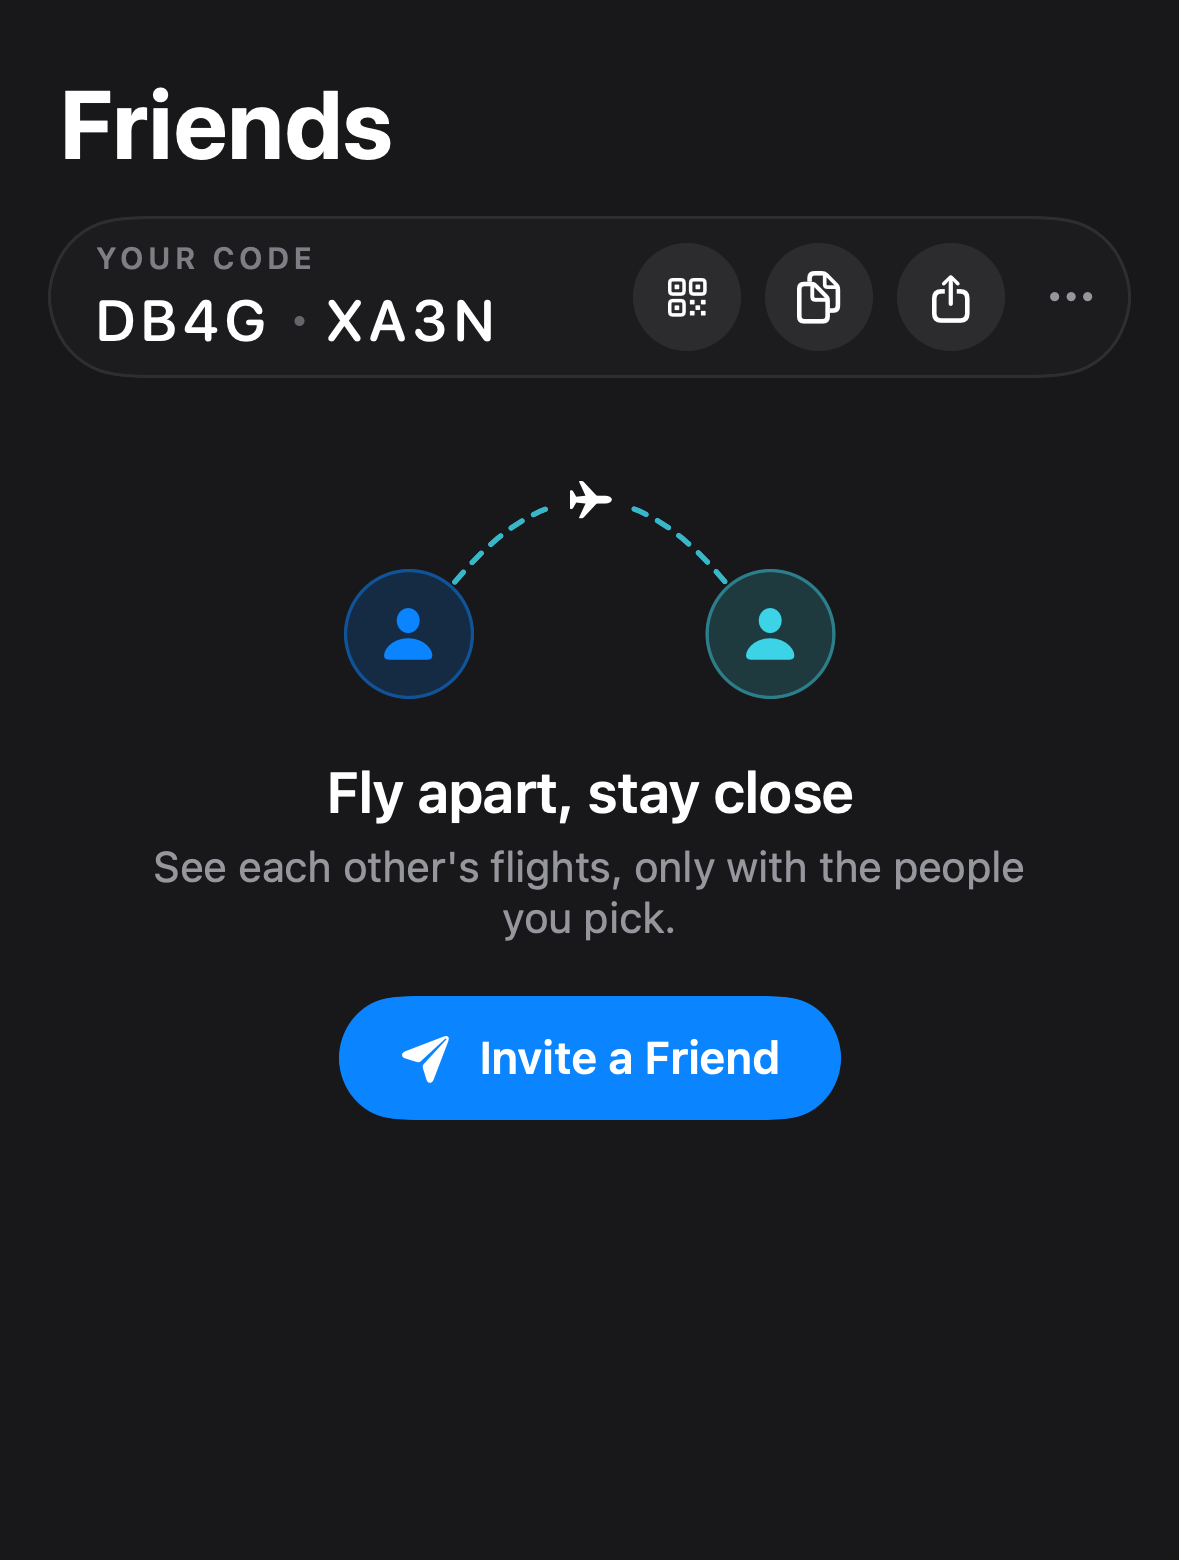
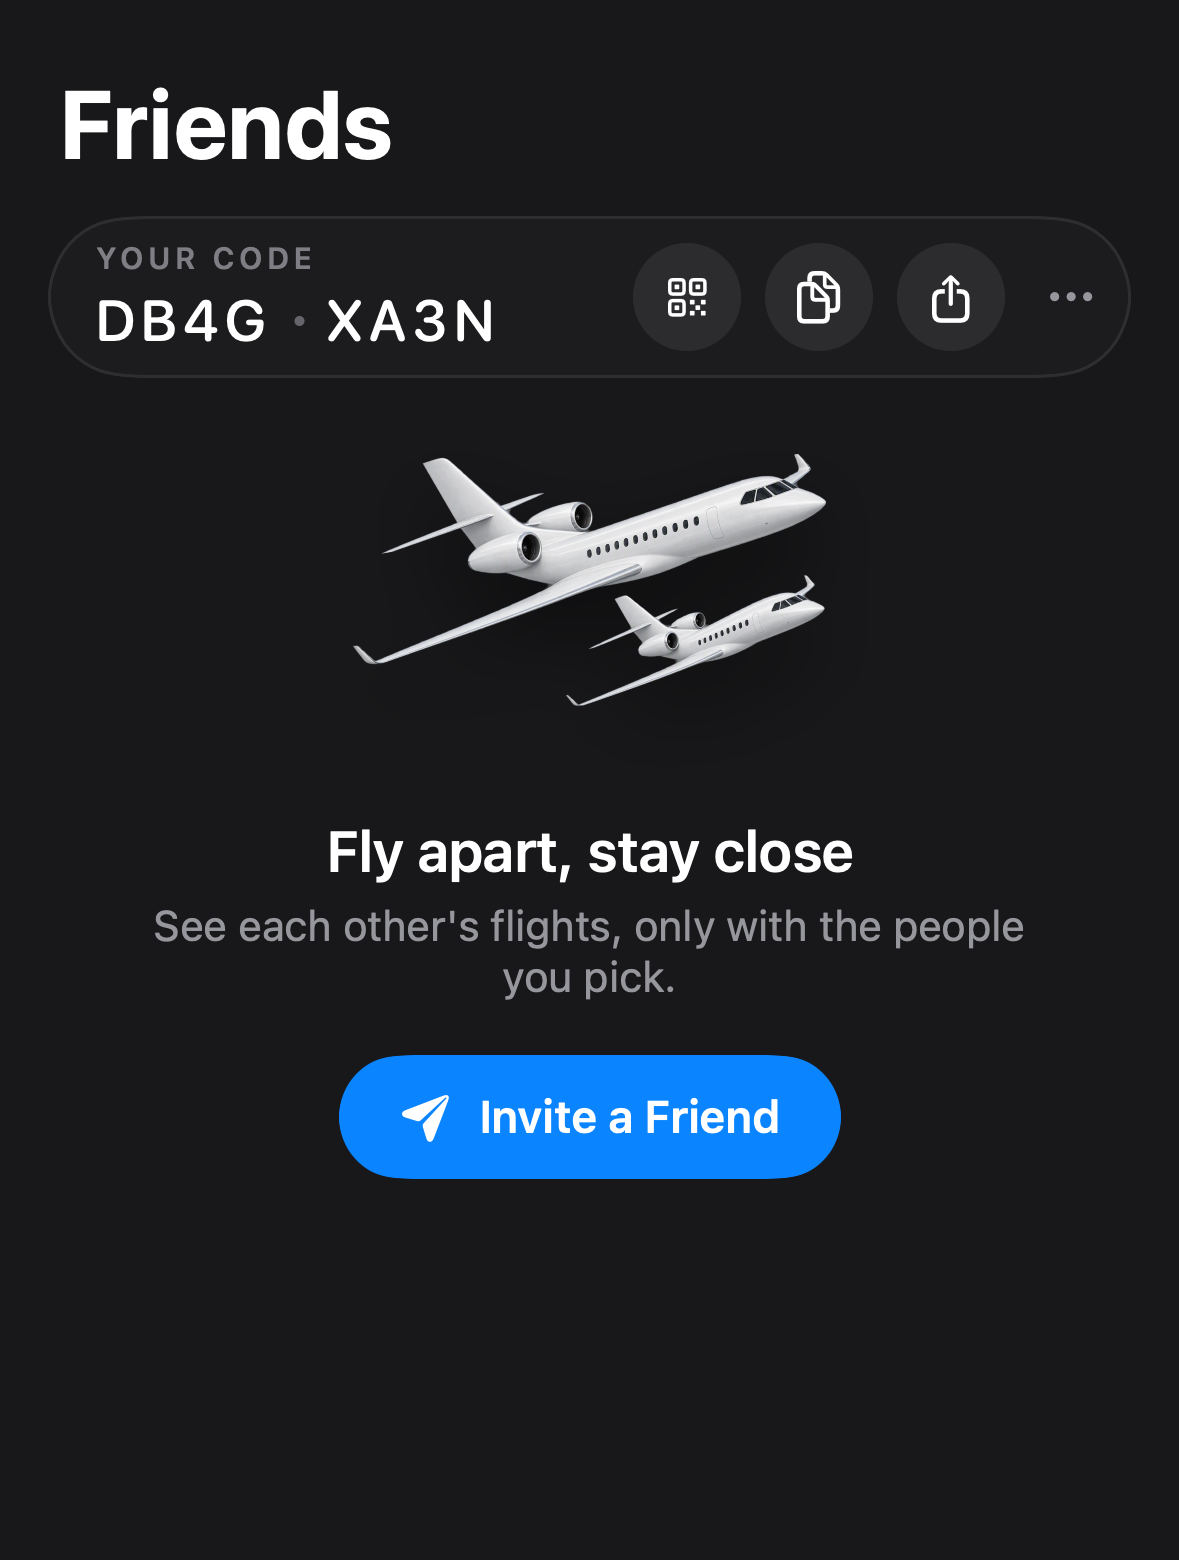
feat(friends): two jets climbing together for the Friends empty state
The drawn person circles and dashed arc give way to a picture in the same
family as the My Flights and Passport jets: two of our white jets climbing in
formation (Azure gpt-image-2.5, prompt in assets/app-icon/gen.py). post.py
gains --lo and --erode to cut this raw's wider glow so no halo shows on the
dark sheet. Copy unchanged.

Changed region(s): [[0.1221, 0.4923, 0.8855, 0.7692], [0.2748, 0.2769, 0.7328, 0.4615]]

diff --git a/Packages/FlightKit/Sources/FlightKit/UI/Screens/Friends/FriendsEmptyState.swift b/Packages/FlightKit/Sources/FlightKit/UI/Screens/Friends/FriendsEmptyState.swift
@@ -1,6 +1,6 @@
 import SwiftUI
 
-/// The Friends tab with no friend yet, under the code row: a small drawing, one line, one sentence and Invite
+/// The Friends tab with no friend yet, under the code row: our two jets climbing together, one line, one sentence and Invite
 /// a Friend, the tab's one strong button, which opens the share sheet with the invitation link (made when it
 /// is tapped, reused until it nears its end).
 struct FriendsEmptyState: View {
@@ -8,8 +8,7 @@ struct FriendsEmptyState: View {
 
     var body: some View {
         VStack(spacing: 0) {
-            FriendsIllustration(width: 168)
-                .scaledPadding(.top, 14)
+            EmptyStateIllustration(variant: .pair, size: 240)
             Text(FriendFacts.emptyTitle)
                 .scaledFont(19, weight: .semibold)
                 .foregroundStyle(Theme.primary)
@@ -34,55 +33,5 @@ struct FriendsEmptyState: View {
         .multilineTextAlignment(.center)
         .frame(maxWidth: .infinity)
         .scaledPadding(.horizontal, 32)
-    }
-}
-
-/// Two friends, one on each side, joined by a dashed flight arc (the globe's friend route) with a small
-/// plane at its top: drawn in SwiftUI, in the accent and friends colours.
-struct FriendsIllustration: View {
-    /// Its width in reference points; the height and every stroke follow.
-    var width: CGFloat = 232
-    @Environment(\.metricsScale) private var scale
-
-    var body: some View {
-        let k = width / 232
-        let w = Theme.metric(width, scale), h = Theme.metric(112 * k, scale), r = Theme.metric(30 * k, scale)
-        let left = CGPoint(x: r + 2, y: h - r - 2), right = CGPoint(x: w - r - 2, y: h - r - 2)
-        // The arc leaves each circle near its top and peaks over the middle.
-        let start = CGPoint(x: left.x + r * 0.7, y: left.y - r * 0.8)
-        let end = CGPoint(x: right.x - r * 0.7, y: right.y - r * 0.8)
-        let control = CGPoint(x: w / 2, y: -h * 0.18)
-        // A quadratic curve's middle point, where its tangent is level: the plane flies left to right there.
-        let top = CGPoint(x: (start.x + 2 * control.x + end.x) / 4, y: (start.y + 2 * control.y + end.y) / 4)
-        ZStack {
-            Path { p in
-                p.move(to: start)
-                p.addQuadCurve(to: end, control: control)
-            }
-            .stroke(Theme.friend.opacity(0.85),
-                    style: StrokeStyle(lineWidth: Theme.metric(2.5 * k, scale), lineCap: .round, dash: [6 * k, 6 * k]))
-            Image(systemName: "airplane")
-                .font(.system(size: Theme.metric(17 * k, scale), weight: .semibold))
-                .foregroundStyle(Theme.primary)
-                .padding(Theme.metric(7 * k, scale))
-                .background(Circle().fill(Theme.background))
-                .position(top)
-            avatar(Theme.accent, at: left, radius: r, k: k)
-            avatar(Theme.friend, at: right, radius: r, k: k)
-        }
-        .frame(width: w, height: h)
-        .accessibilityHidden(true)
-    }
-
-    private func avatar(_ tone: Color, at point: CGPoint, radius r: CGFloat, k: CGFloat) -> some View {
-        ZStack {
-            Circle().fill(tone.opacity(0.18))
-            Circle().strokeBorder(tone.opacity(0.45), lineWidth: Theme.metric(1.5 * k, scale))
-            Image(systemName: "person.fill")
-                .font(.system(size: r * 0.9, weight: .medium))
-                .foregroundStyle(tone)
-        }
-        .frame(width: r * 2, height: r * 2)
-        .position(point)
     }
 }

diff --git a/Packages/FlightKit/Sources/FlightKit/UI/EmptyStateIllustration.swift b/Packages/FlightKit/Sources/FlightKit/UI/EmptyStateIllustration.swift
@@ -1,7 +1,7 @@
 import SwiftUI
 
 /// A large, soft illustration for an empty screen: our glossy white jet on its own, nothing drawn around it.
-/// The pictures come from assets/empty-states (Azure gpt-image-2.5, the v4 icon jet as the style reference).
+/// The pictures come from assets/empty-states and assets/app-icon (Azure gpt-image-2.5, one jet as the style reference).
 /// Decorative: VoiceOver skips it, the text under it speaks. The jet floats gently, and stays still with
 /// Reduce Motion.
 struct EmptyStateIllustration: View {
@@ -11,11 +11,14 @@ struct EmptyStateIllustration: View {
         case stamp
         /// The jet seen three-quarters from the front, climbing (My Flights).
         case climb
+        /// Two of the same jets climbing together, one ahead and one behind (Friends).
+        case pair
 
         var asset: String {
             switch self {
             case .stamp: "empty-jet-profile"
             case .climb: "empty-jet-climb"
+            case .pair: "empty-jets-friends"
             }
         }
     }

diff --git a/assets/empty-states/post.py b/assets/empty-states/post.py
@@ -1,22 +1,28 @@
 """Clean a raw generation into an app asset: drop the faint alpha halo, trim, resize, write the imageset.
 
-    python3 assets/empty-states/post.py raw/profile-1.png empty-jet-profile [--preview DIR]
+    python3 assets/empty-states/post.py raw/profile-1.png empty-jet-profile [--preview DIR] [--lo 40] [--erode]
+
+--lo raises the alpha floor for a raw with a wider glow; --erode then shaves one pixel off the rim so no light
+fringe survives on the dark sheet (the app icon's cleanup).
 """
 import json, pathlib, sys
 import numpy as np
-from PIL import Image
+from PIL import Image, ImageFilter
 
 ROOT = pathlib.Path(__file__).resolve().parents[2]
 SETS = ROOT / "Packages/FlightKit/Sources/FlightKit/Resources/Illustrations.xcassets"
 WIDTH = 900  # 300 pt wide at @3x, the largest the empty states draw it
 
 
-def clean(path):
+def clean(path, lo=40, erode=False):
     im = Image.open(path).convert("RGBA")
     a = np.array(im).astype(np.float32)
     alpha = a[..., 3]
     # The model leaves a faint white glow (alpha under ~40) around the aircraft: fade it out.
-    alpha = np.clip((alpha - 40) * 255 / (255 - 40), 0, 255)
+    alpha = np.clip((alpha - lo) * 255 / (255 - lo), 0, 255)
+    if erode:
+        er = np.array(Image.fromarray(alpha.astype(np.uint8)).filter(ImageFilter.MinFilter(3))).astype(np.float32)
+        alpha = np.array(Image.fromarray(np.minimum(alpha, er).astype(np.uint8)).filter(ImageFilter.GaussianBlur(0.6)))
     a[..., 3] = alpha
     im = Image.fromarray(a.astype(np.uint8))
     im = im.crop(im.getbbox())
@@ -37,7 +43,8 @@ def preview(im, name, d):
 
 if __name__ == "__main__":
     src, name = sys.argv[1], sys.argv[2]
-    im = clean(src)
+    lo = int(sys.argv[sys.argv.index("--lo") + 1]) if "--lo" in sys.argv else 40
+    im = clean(src, lo, "--erode" in sys.argv)
     if "--preview" in sys.argv:
         preview(im, name, sys.argv[sys.argv.index("--preview") + 1])
         sys.exit()
